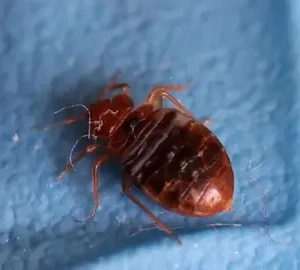
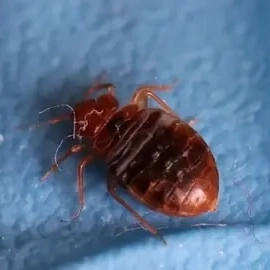
feat: finish content and styling for services page

diff --git a/services.html b/services.html
@@ -31,32 +31,52 @@
     <main>
         <section id="services">
             <div>
+                <h3>Wasps</h3>
+                <img class="pest-image" src="assets/images/wasp.webp" alt="A wasp">
+                <p>Wasps are most prevalant as pests in Spring through to early Autumn. If you're seeing wasps frequently, it may be a sign there is a nest nearby. We've been dealing with wasps for years and can usually deal with them on the first visit.</p>
+                <div class="pest-container">
+                    <iframe class="pest-video" src="https://www.youtube.com/embed/rHsITgjO7UE?si=M_joWpwy1hpTm8BS"></iframe>
+                </div>
+            </div>
+            <div>
                 <h3>Rats</h3>
-                <img class="pest-image" src="assets/images/rat.webp" alt="A rat">
-                <p>Rats are typically distinguished from mice by their size. Usually the common name of a large muroid rodent will include the word "rat", while a smaller muroid's name will include "mouse". The common terms rat and mouse are not taxonomically specific. There are 56 known species of rats in the world.[1]</p>
+                <img class="pest-image" src="assets/images/rodent.webp" alt="A rat">
+                <p>Rats are typically distinguished from mice by their size. Small droppings on the floor and gnawed holes at the ground level may indicate a rat infestation. We provide a variety of solutions including humane traps.</p>
                 <div class="pest-container"> 
-                    <iframe class="pest-video" src="https://www.youtube.com/embed/iBmqwmd96BM?si=KRMWys1yqpvgkYQA" height="315" width="570"></iframe>
+                    <iframe class="pest-video" src="https://www.youtube.com/embed/iBmqwmd96BM?si=KRMWys1yqpvgkYQA"></iframe>
                 </div> 
             </div>
             <div>
                 <h3>Moths</h3>
                 <img class="pest-image" src="assets/images/moth.webp" alt="A moth">
-                <p>Moths are a group of insects that includes all members of the order Lepidoptera that are not butterflies.[1] They were previously classified as suborder Heterocera, but the group is paraphyletic with respect to butterflies (suborder Rhopalocera) and neither subordinate taxon is used in modern classifications. Moths make up the vast majority of the order. There are approximately 160,000 species of moth</p>
+                <p>Moths are probably best recognised for their butterfly-like appearance, but the larvae stage of a moth's lifecycle can cause numerous issues. Patches of ruined carpet may be a sign of carpet moths.</p>
                 <div class="pest-container">
-                    <iframe  class="pest-video" width="560" height="315" src="https://www.youtube.com/embed/o56UXxcgC3s?si=tRq5JxmOHwBsXQ-4" frameborder="0"></iframe>
+                    <iframe  class="pest-video" src="https://www.youtube.com/embed/o56UXxcgC3s?si=tRq5JxmOHwBsXQ-4"></iframe>
                 </div>
             </div>
             <div>
-                <h3>Wasps</h3>
-            </div>
-            <div>
                 <h3>Bedbugs</h3>
+                <img class="pest-image" src="assets/images/bedbug.webp" alt="A bedbug">
+                <p>Bedbugs are notoriously difficult to remove once an infestation has started. Despite their name, they often survive in sofas, clothes, and other furniture. We have a vigorous process that will ensure your home is clear. </p>
+                <div class="pest-container">
+                    <iframe class="pest-video" src="https://www.youtube.com/embed/4LHgdaWXNso?si=N4OKNf7okZlGWURy"></iframe>
+                </div>
             </div>
             <div>
                 <h3>Fleas</h3>
+                <img class="pest-image" src="assets/images/flea.webp" alt="A flea">
+                <p>Fleas are most commonly a problem for pet-owners as they usually cannot survive for long on humans alone. They can live in furniture for short periods of time however, and we can provide services to ensure both your pets and home are clear of fleas.</p>
+                <div class="pest-container">
+                    <iframe class="pest-video" src="https://www.youtube.com/embed/7PQ_Qvj3hgU?si=wZcAmxIHIqjMixg7"></iframe>
+                </div>
             </div>
             <div>
                 <h3>Weevils</h3>
+                <img class="pest-image" src="assets/images/weevil.webp" alt="A weevil">
+                <p>Weevils are a kind of beetle that are normally found in dry foodstuffs such as pasta or biscuits. To make sure your food is safe, the storage area must be properly dealt with. We can also put provisions in place to ensure you are safeguarded against weevils in the future.</p>
+                <div class="pest-container">
+                    <iframe class="pest-video" src="https://www.youtube.com/embed/4_j85qTp_Lg?si=fF9QJtWSMcU2ipmu"></iframe>
+                </div>
             </div>
         </section>
     </main>

diff --git a/assets/css/style.css b/assets/css/style.css
@@ -153,7 +153,6 @@ main {
 }
 
 /* Explainer section */
-
 #explainer h2 {
     margin-top: 10px;
     text-align: center;
@@ -241,9 +240,9 @@ main {
         display: inline-block;
         color: white;
         text-align: center;
-        padding: 30px;
+        padding: 15px;
         /* Child flex properties */
-        flex-basis: 700px;
+        flex-basis: 500px;
         flex-grow: 1;
         /* Parent flex properties */
         display: flex;
@@ -275,6 +274,7 @@ main {
         border: solid rgba(255, 255, 255, 0.6) 3px;
         border-radius: 50%;
         width: 30%;
+
     }
 
     .pest-container {
@@ -287,7 +287,8 @@ main {
     /* Pest videos */
     .pest-video {
         border: solid rgba(255, 255, 255, 0.6) 1px;
-        max-width: 100vw;
+        aspect-ratio: 16/ 9;
+        width: 95%;
     }
 
 /* Footer */
